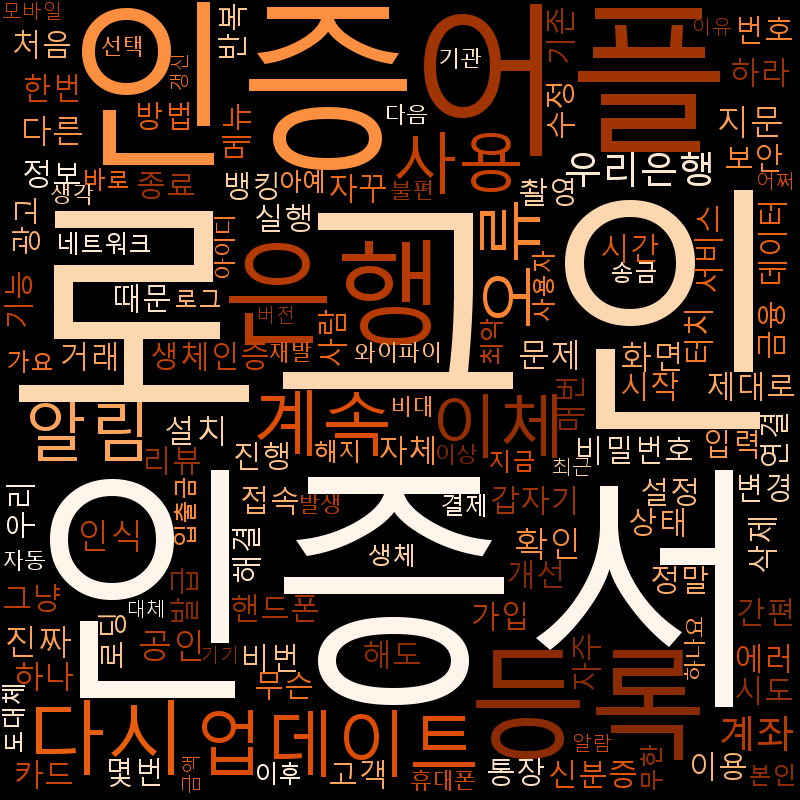
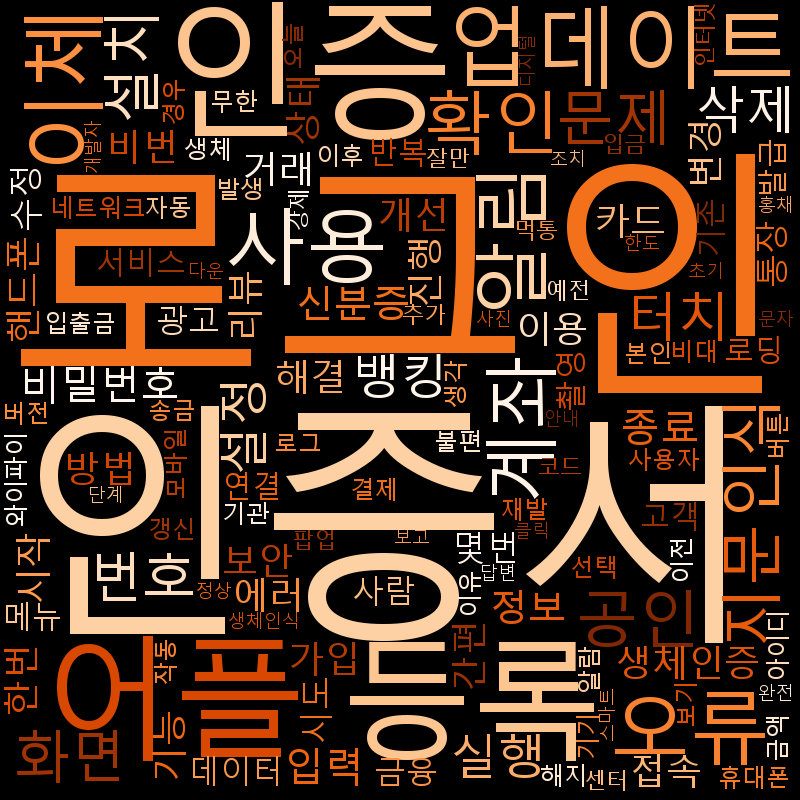
워드클라우드 불용어 재적용, 긍정 색상 변경

diff --git a/WordCloud.py b/WordCloud.py
@@ -35,12 +35,15 @@ def define_stopwords(path):
 
 def text_tokenizing(doc):  # 형태소 분석
     global c
+    global SW
     # tokenized_doc = []
     # for word in okt.nouns(doc):
     #     if word is not in SW and len(word) >1 :
     #         tokenized_doc.append(word)
     # return tokenized_doc
 
+    # txt 파일에 불용어 등록 시 처음 한 줄 비우고 작성할 것.
+    SW = [line.rstrip() for line in SW]
     words = [word for word in okt.nouns(doc) if word not in SW and len(word) > 1]
     c = Counter(words)  # 단어별 빈도수 형태의 딕셔너리 데이터
     return c
@@ -61,8 +64,7 @@ def create_WordCloud(path, rate1, rate2, colormap, savepath):
     print(text)
     # print(okt.pos(text, norm=True, stem=True))
 
-    SW = define_stopwords("C:\\Users\\Cyber\\PycharmProjects\\Bank\\stopwords-ko.txt")
-    # SW = define_stopwords("C:/Users/9993h/OneDrive/desktop/BankAppReviewAnalysis/BARA/stopwords/stopwords-ko.txt")
+    SW = define_stopwords("./stopwords/stopwords-ko.txt")
 
     cleaned_text = text_cleaning(text)
     print("전처리: ", cleaned_text)
@@ -92,7 +94,7 @@ def main():
                      './wordcloud/개인고객/HANA_WordCloud_N.png')
     HANA_negative_top3 = top3
 
-    create_WordCloud('./reviews/개인고객/HANAreview_dataset.csv', 4, 5, 'RdBu_r', './wordcloud/개인고객/HANA_WordCloud_P.png')
+    create_WordCloud('./reviews/개인고객/HANAreview_dataset.csv', 4, 5, 'GnBu', './wordcloud/개인고객/HANA_WordCloud_P.png')
     HANA_positive_top3 = top3
 
     # 하나은행 (기업)
@@ -100,7 +102,7 @@ def main():
                      './wordcloud/기업고객/HANA_E_WordCloud_N.png')
     HANA_E_negative_top3 = top3
 
-    create_WordCloud('./reviews/기업고객/HANA_enterprise_review_dataset.csv', 4, 5, 'RdBu_r',
+    create_WordCloud('./reviews/기업고객/HANA_enterprise_review_dataset.csv', 4, 5, 'GnBu',
                      './wordcloud/기업고객/HANA_E_WordCloud_P.png')
     HANA_E_positive_top3 = top3
 
@@ -109,7 +111,7 @@ def main():
                      './wordcloud/개인고객/IBK_WordCloud_N.png')
     IBK_negative_top3 = top3
 
-    create_WordCloud('./reviews/개인고객/ibkbank_individual_review_dataset.csv', 4, 5, 'RdBu_r',
+    create_WordCloud('./reviews/개인고객/ibkbank_individual_review_dataset.csv', 4, 5, 'GnBu',
                      './wordcloud/개인고객/IBK_WordCloud_P.png')
     IBK_positive_top3 = top3
 
@@ -118,7 +120,7 @@ def main():
                      './wordcloud/기업고객/IBK_E_WordCloud_N.png')
     IBK_E_negative_top3 = top3
 
-    create_WordCloud('./reviews/기업고객/IBKreview_dataset(iONEBank기업).csv', 4, 5, 'RdBu_r',
+    create_WordCloud('./reviews/기업고객/IBKreview_dataset(iONEBank기업).csv', 4, 5, 'GnBu',
                      './wordcloud/기업고객/IBK_E_WordCloud_P.png')
     IBK_E_positive_top3 = top3
 
@@ -127,7 +129,7 @@ def main():
                      './wordcloud/개인고객/KB_WordCloud_N.png')
     KB_negative_top3 = top3
 
-    create_WordCloud('./reviews/개인고객/KBreview_dataset.csv', 4, 5, 'RdBu_r',
+    create_WordCloud('./reviews/개인고객/KBreview_dataset.csv', 4, 5, 'GnBu',
                      './wordcloud/개인고객/KB_WordCloud_P.png')
     KB_positive_top3 = top3
 
@@ -136,7 +138,7 @@ def main():
                      './wordcloud/기업고객/KB_E_WordCloud_N.png')
     KB_E_negative_top3 = top3
 
-    create_WordCloud('./reviews/기업고객/KBreview_dataset(KB스타기업뱅킹).csv', 4, 5, 'RdBu_r',
+    create_WordCloud('./reviews/기업고객/KBreview_dataset(KB스타기업뱅킹).csv', 4, 5, 'GnBu',
                      './wordcloud/기업고객/KB_E_WordCloud_P.png')
     KB_E_positive_top3 = top3
 
@@ -145,7 +147,7 @@ def main():
                      './wordcloud/개인고객/NH_WordCloud_N.png')
     NH_negative_top3 = top3
 
-    create_WordCloud('./reviews/개인고객/NHreview_dataset.csv', 4, 5, 'RdBu_r',
+    create_WordCloud('./reviews/개인고객/NHreview_dataset.csv', 4, 5, 'GnBu',
                      './wordcloud/개인고객/NH_WordCloud_P.png')
     NH_positive_top3 = top3
 
@@ -154,7 +156,7 @@ def main():
                      './wordcloud/기업고객/NH_E_WordCloud_N.png')
     NH_E_negative_top3 = top3
 
-    create_WordCloud('./reviews/기업고객/NHreview_dataset(NH기업뱅킹).csv', 4, 5, 'RdBu_r',
+    create_WordCloud('./reviews/기업고객/NHreview_dataset(NH기업뱅킹).csv', 4, 5, 'GnBu',
                      './wordcloud/기업고객/NH_E_WordCloud_P.png')
     NH_E_positive_top3 = top3
 
@@ -163,7 +165,7 @@ def main():
                      './wordcloud/개인고객/WOORI_WordCloud_N.png')
     WOORI_negative_top3 = top3
 
-    create_WordCloud('./reviews/개인고객/WONreview_dataset.csv', 4, 5, 'RdBu_r',
+    create_WordCloud('./reviews/개인고객/WONreview_dataset.csv', 4, 5, 'GnBu',
                      './wordcloud/개인고객/WOORI_WordCloud_P.png')
     WOORI_positive_top3 = top3
 
@@ -172,7 +174,7 @@ def main():
                      './wordcloud/기업고객/WOORI_E_WordCloud_N.png')
     WOORI_E_negative_top3 = top3
 
-    create_WordCloud('./reviews/기업고객/WOORIbank_enterprise_review_dataset.csv', 4, 5, 'RdBu_r',
+    create_WordCloud('./reviews/기업고객/WOORIbank_enterprise_review_dataset.csv', 4, 5, 'GnBu',
                      './wordcloud/기업고객/WOORI_E_WordCloud_P.png')
     WOORI_E_positive_top3 = top3
 
@@ -181,7 +183,7 @@ def main():
                      './wordcloud/개인고객/SHINHAN_WordCloud_N.png')
     SHINHAN_negative_top3 = top3
 
-    create_WordCloud('./reviews/개인고객/신한review_dataset.csv', 4, 5, 'RdBu_r',
+    create_WordCloud('./reviews/개인고객/신한review_dataset.csv', 4, 5, 'GnBu',
                      './wordcloud/개인고객/SHINHAN_WordCloud_P.png')
     SHINHAN_positive_top3 = top3
 
@@ -190,7 +192,7 @@ def main():
                      './wordcloud/기업고객/SHINHAN_E_WordCloud_N.png')
     SHINHAN_E_negative_top3 = top3
 
-    create_WordCloud('./reviews/기업고객/SHINHANbank_enterprise_review_dataset.csv', 4, 5, 'RdBu_r',
+    create_WordCloud('./reviews/기업고객/SHINHANbank_enterprise_review_dataset.csv', 4, 5, 'GnBu',
                      './wordcloud/기업고객/SHINHAN_E_WordCloud_P.png')
     SHINHAN_E_positive_top3 = top3
 
@@ -199,7 +201,7 @@ def main():
                      './wordcloud/인터넷뱅크/KAKAO_WordCloud_N.png')
     KAKAO_negative_top3 = top3
 
-    create_WordCloud('./reviews/인터넷뱅크/KAKAO_review_dataset.csv', 4, 5, 'RdBu_r',
+    create_WordCloud('./reviews/인터넷뱅크/KAKAO_review_dataset.csv', 4, 5, 'GnBu',
                      './wordcloud/인터넷뱅크/KAKAO_WordCloud_P.png')
     KAKAO_positive_top3 = top3
 
@@ -208,7 +210,7 @@ def main():
                      './wordcloud/인터넷뱅크/KBank_WordCloud_N.png')
     KBank_negative_top3 = top3
 
-    create_WordCloud('./reviews/인터넷뱅크/KBank_review_dataset.csv', 4, 5, 'RdBu_r',
+    create_WordCloud('./reviews/인터넷뱅크/KBank_review_dataset.csv', 4, 5, 'GnBu',
                      './wordcloud/인터넷뱅크/KBank_WordCloud_P.png')
     KBank_positive_top3 = top3
 
@@ -217,10 +219,9 @@ def main():
                      './wordcloud/인터넷뱅크/TOSS_WordCloud_N.png')
     TOSS_negative_top3 = top3
 
-    create_WordCloud('./reviews/인터넷뱅크/TOSS_review_dataset.csv', 4, 5, 'RdBu_r',
+    create_WordCloud('./reviews/인터넷뱅크/TOSS_review_dataset.csv', 4, 5, 'GnBu',
                      './wordcloud/인터넷뱅크/TOSS_WordCloud_P.png')
     TOSS_positive_top3 = top3
-
 
 # 은행 별 부정,긍정 워드클라우드 생성 (개인, 기업 순)
 # main()
